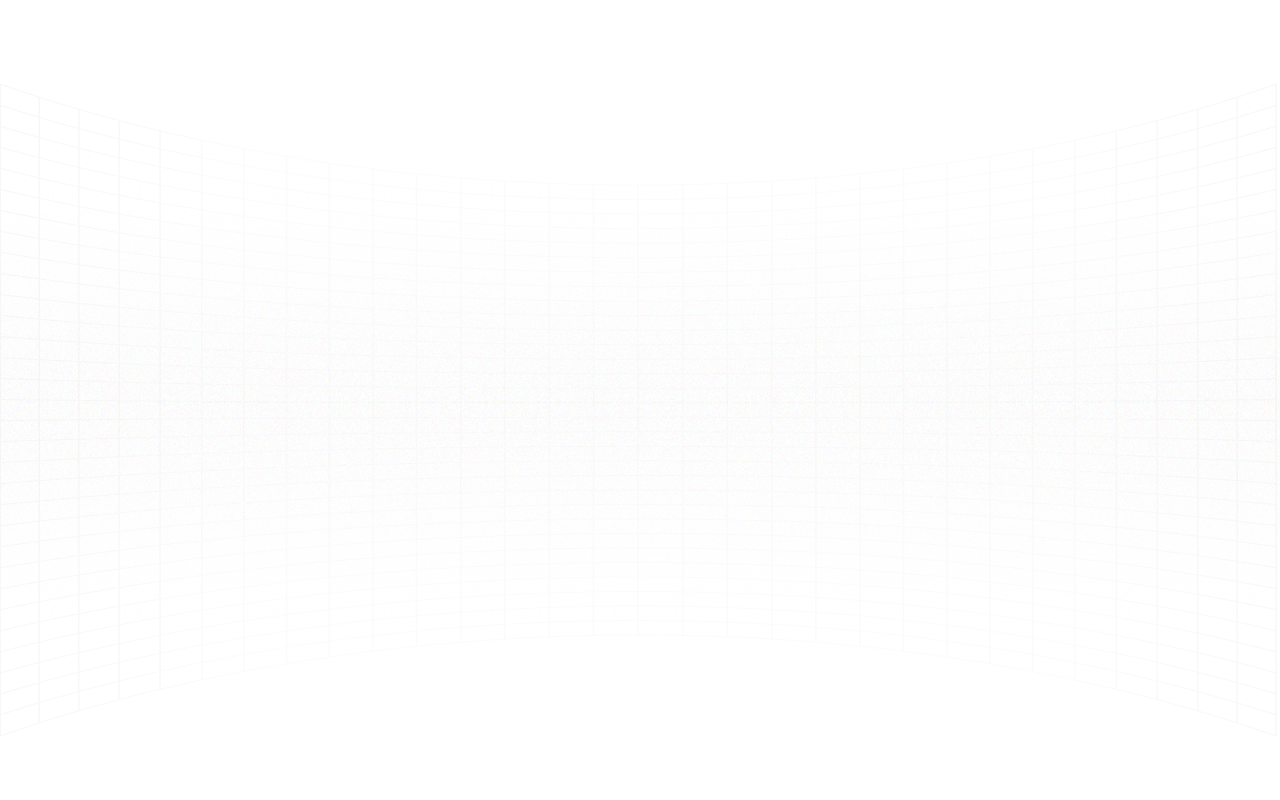
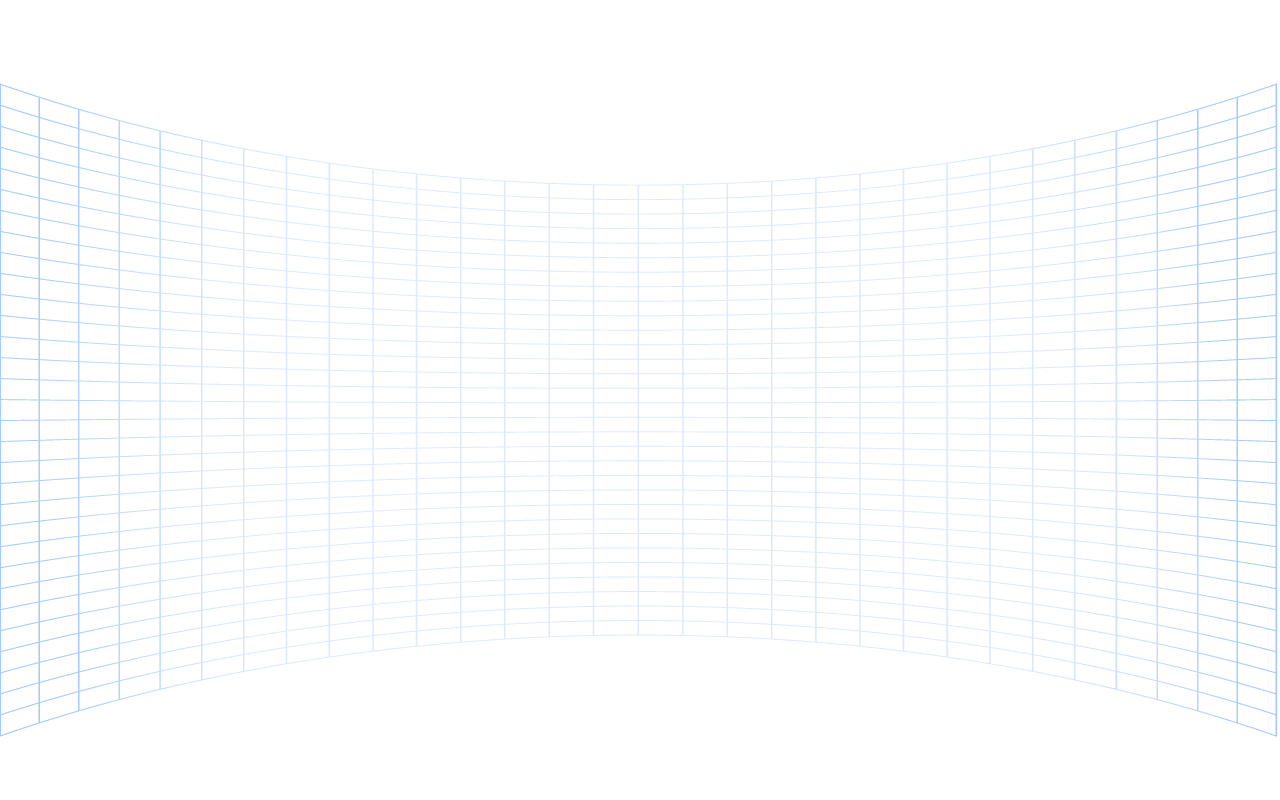
Updated styles

diff --git a/app/scripts/views/application-view.js b/app/scripts/views/application-view.js
@@ -70,8 +70,9 @@ StacheTrack.Views.applicationView = Backbone.View.extend({
       var graphicsDiv=document.getElementById("mustacheMolder");
       var gr = new jxGraphics(graphicsDiv);
       var pen = new jxPen(new jxColor("black"),1);
-      var brushYellow = new jxBrush(new jxColor('yellow'));
-      var brushRed = new jxBrush(new jxColor('663300'));
+      var brushWhite = new jxBrush(new jxColor('white'));
+      var brushBlack = new jxBrush(new jxColor('black'));
+
 
       graphicsDiv.onmousemove = getMouseXY;
 
@@ -95,14 +96,14 @@ StacheTrack.Views.applicationView = Backbone.View.extend({
       var curvePoints = [new jxPoint(68, 287), new jxPoint(164, 205), new jxPoint(286, 184), new jxPoint(379, 188), new jxPoint(473, 208), new jxPoint(551, 292), new jxPoint(456, 260), new jxPoint(378, 245), new jxPoint(288, 241), new jxPoint(172, 255)];
 
       //Draw closed curve
-      var curve = new jxClosedCurve(curvePoints, pen, brushRed)
+      var curve = new jxClosedCurve(curvePoints, pen, brushBlack)
       curve.draw(gr);
 
 
       //Draw circles at the curve points
       var circles = new Array(), drag = false, activeCircle;;
       for (var i in curvePoints) {
-          var cir = new jxCircle(curvePoints[i], 5, pen, brushYellow);
+          var cir = new jxCircle(curvePoints[i], 5, pen, brushWhite);
               cir.draw(gr);
               cir.addEventListener('mousedown', circleMouseDown);
               cir.addEventListener('mouseup', circleMouseUp);
@@ -204,7 +205,7 @@ StacheTrack.Views.applicationView = Backbone.View.extend({
       }
       
     }
-    
+
     $('path').fadeOut(500);
     $('circle').fadeOut(500);
   }

diff --git a/app/scripts/app.js b/app/scripts/app.js
@@ -50,6 +50,7 @@ var App = {
                 backCtx = App.backContext,
                 m = 4,
                 w = 4,
+                s = 1.4,
                 i,
                 comp;
             
@@ -72,7 +73,7 @@ var App = {
 
             for (i = App.comp.length; i--; ) {
                 
-                ctx.drawImage(App.glasses, (App.comp[i].x - w / 2) * m, (App.comp[i].y - w / 2) * m, (App.comp[i].width + w) * m, (App.comp[i].height + w) * m);
+                ctx.drawImage(App.glasses, (App.comp[i].x - w / 2) * m - 20, (App.comp[i].y - w / 2) * m - 45, (App.comp[i].width + w) * m * s, (App.comp[i].height + w) * m * s);
                 if(App.running === "last")
                 {
                     App.videoScale = (App.comp[i].height + w) * m;

diff --git a/app/styles/main.scss b/app/styles/main.scss
@@ -6,11 +6,10 @@ body {
     font-size: 11px;
     line-height: 11px;
     line-height: 24px;
-    color: #fff;
     width: 100%;
     height: 100%;
     margin: 0 auto;
-    background-color: #1f1f1f;
+    background-color: #121212;
     color: white;
     text-align: center;
     background-image: url(../images/bgGrid.png);
@@ -182,7 +181,6 @@ body {
 
 path
 {
-    opacity: 0.5;
     cursor: pointer;
 }
 
